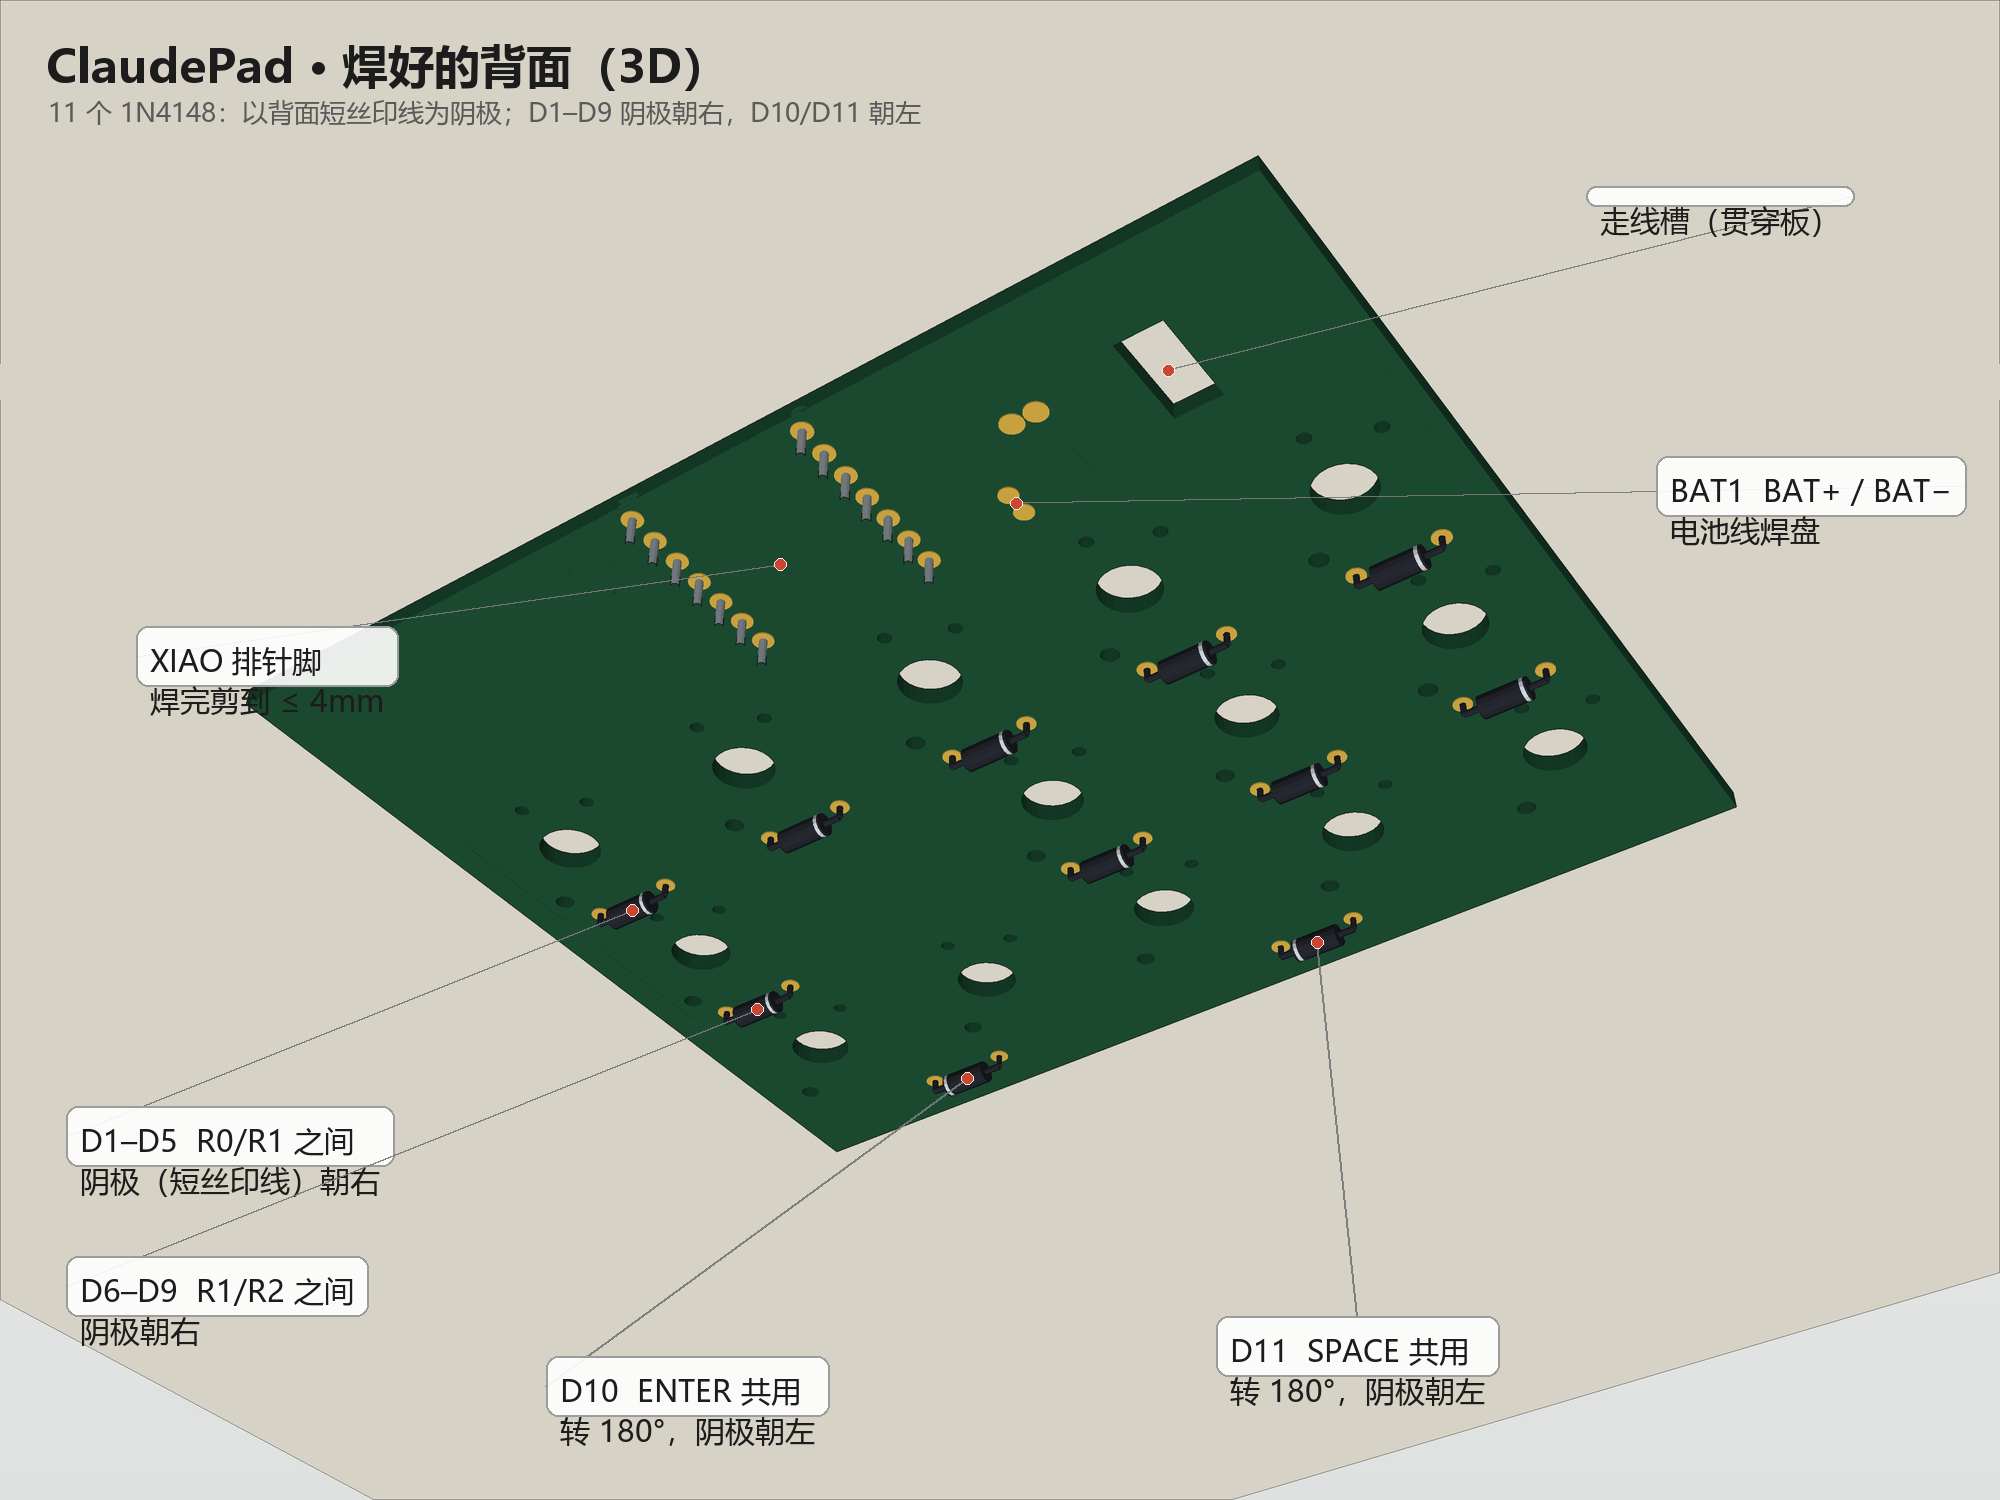
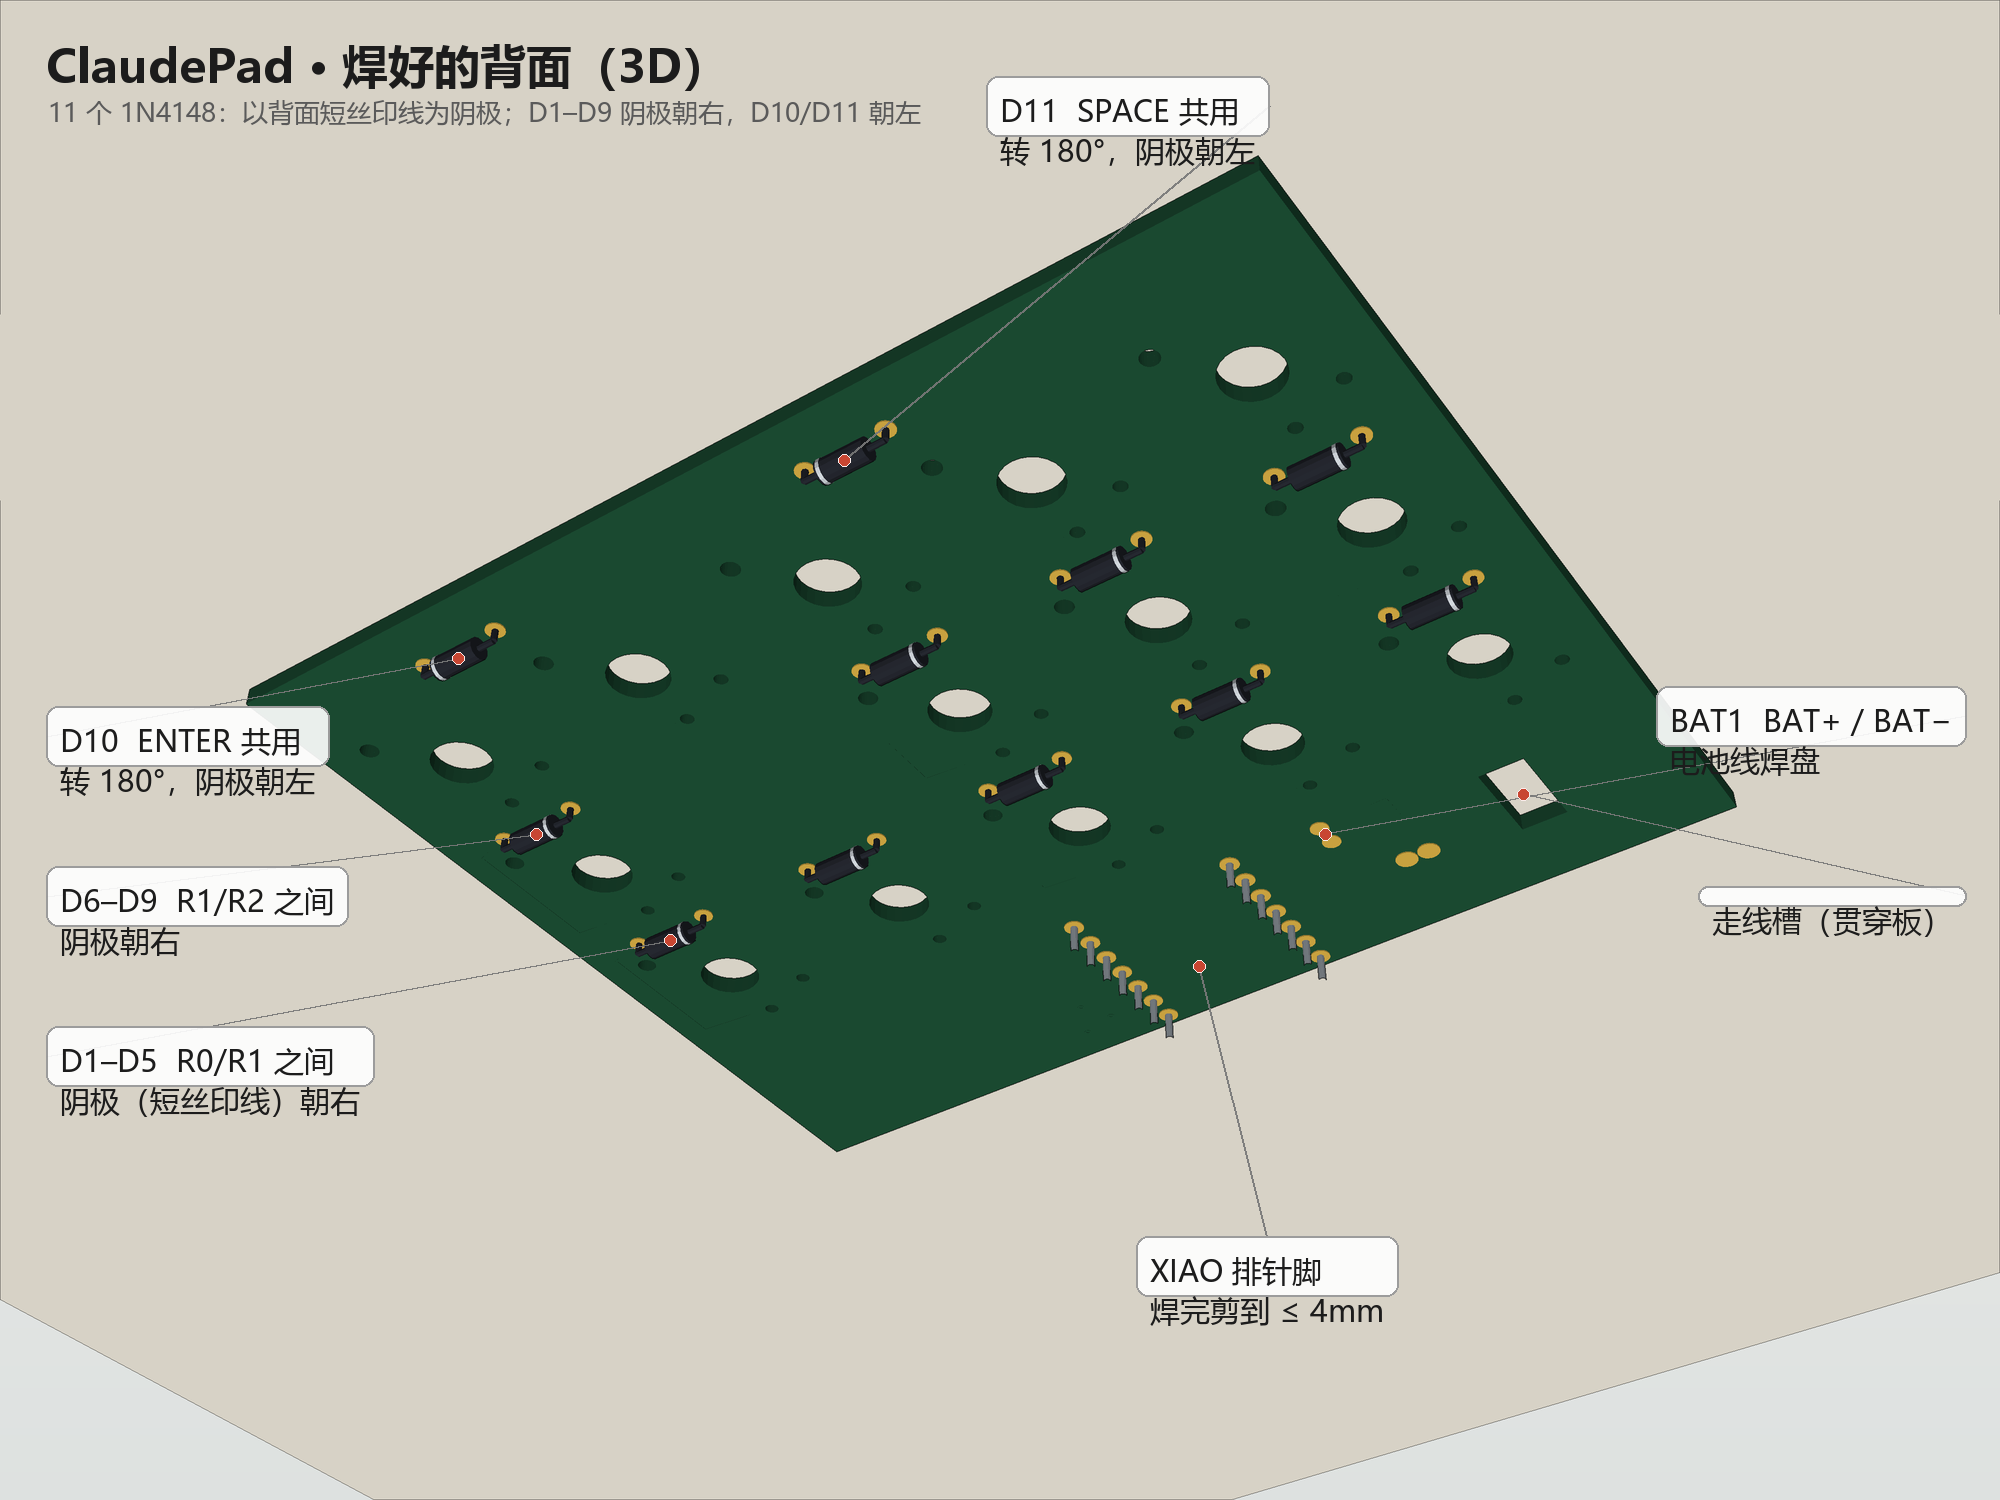
fix(render): mirror 3D guides to the physical PCB frame (KiCad STEP uses Y=-Y_board) [skip ci]

diff --git a/tools/render_assembly.py b/tools/render_assembly.py
@@ -319,6 +319,22 @@ def erode(mask, it=1):
     return m
 
 
+# KiCad exports 3D/STEP in a frame where Y = -Y(board).  The fabricated board
+# follows the 3D/STEP frame, so the board-coordinate scene must be mirrored in Y
+# to match the real PCB (and the KiCad previews).
+Y_MIRROR = 82.0
+
+
+def mirror_y(tri):
+    out = tri.copy()
+    out[:, :, 1] = Y_MIRROR - out[:, :, 1]
+    return out[:, [0, 2, 1]]
+
+
+def my_point(p):
+    return (p[0], Y_MIRROR - p[1], p[2])
+
+
 def render(cam: Camera, meshes, ss=2, lights=None, edge_color=0.42):
     """meshes: list of (triangles, rgb) tuples."""
     W, H = cam.width, cam.height
@@ -333,6 +349,7 @@ def render(cam: Camera, meshes, ss=2, lights=None, edge_color=0.42):
     for tris, col in meshes:
         if len(tris) == 0:
             continue
+        tris = mirror_y(tris)
         v = tris - cam.pos
         cx, cy, cz = v @ cam.r, v @ cam.u, v @ cam.f
         if cam.ortho_scale is not None:
@@ -433,7 +450,7 @@ def draw_callouts(img, cam, callouts, *, title, subtitle, fsize=30,
     draw.text((48, 94), subtitle, font=f_sub, fill=(90, 90, 90))
 
     for c in callouts:
-        ax, ay, _ = cam.project([c["anchor"]])
+        ax, ay, _ = cam.project([my_point(c["anchor"])])
         ax, ay = float(ax[0]), float(ay[0])
         text = c["text"]
         lines = text.split("\n")
@@ -553,7 +570,7 @@ def scene_soldered_bottom():
 # views
 # ---------------------------------------------------------------------------
 def project_anchor(cam, p):
-    sx, sy, _ = cam.project([p])
+    sx, sy, _ = cam.project([my_point(p)])
     return float(sx[0]), float(sy[0])
 
 
@@ -565,21 +582,19 @@ def view_front_iso():
     img = render(cam, meshes, ss=2,
                  lights=[((0.35, -0.5, 0.79), 0.62), ((-0.6, -0.2, 0.4), 0.24)])
     callouts = [
-        dict(anchor=(54, 12, Z_TOP + 7.3), xy=(250, 1140),
-             text="U1  XIAO nRF52840\n2×7 排针，抬高 2.5mm\nUSB-C 朝后边"),
-        dict(anchor=(76, 12, Z_TOP + 4.5), xy=(1120, 1280),
+        dict(anchor=(54, 12, Z_TOP + 7.3), xy=(1040, 170),
+             text="U1  XIAO nRF52840\n2×7 排针，抬高 2.5mm\n背面 BAT 焊盘引电池线"),
+        dict(anchor=(76, 12, Z_TOP + 4.5), xy=(1450, 360),
              text="J1  JST-PH 2.0\npin1 = BAT+"),
-        dict(anchor=(58, 18, Z_TOP + 1.2), xy=(120, 940),
-             text="电池线：XIAO 背面 BAT 焊盘\n沿模块右侧走到 BAT1"),
-        dict(anchor=(85.5, 14, Z_TOP), xy=(1420, 1300),
+        dict(anchor=(85.5, 14, Z_TOP), xy=(1980, 720), align="right",
              text="走线槽 4×8mm\n电池线穿到背面"),
-        dict(anchor=(18, 30.5, Z_TOP + 7.9), xy=(110, 330),
-             text="SW1–SW5  R0 上排\nPERM MODEL CMD ↑ VOICE"),
-        dict(anchor=(18, 47.5, Z_TOP + 7.9), xy=(110, 500),
-             text="SW6–SW9  R1 中排\nSTOP ← ↓ →"),
-        dict(anchor=(72, 64.5, Z_TOP + 7.9), xy=(1250, 330),
-             text="SW10–SW14  R2 下排\nENTER 2 轴 / SPACE 3 轴\n每个轴位 pin1 在左下角"),
-        dict(anchor=(90, 55.5, Z_TOP + 4.9), xy=(1980, 860), align="right",
+        dict(anchor=(18, 30.5, Z_TOP + 7.9), xy=(120, 190),
+             text="SW1–SW5  R0（靠 USB 一端）\nPERM MODEL CMD ↑ VOICE"),
+        dict(anchor=(18, 47.5, Z_TOP + 7.9), xy=(120, 400),
+             text="SW6–SW9  R1\nSTOP ← ↓ →"),
+        dict(anchor=(72, 64.5, Z_TOP + 7.9), xy=(260, 1120),
+             text="SW10–SW14  R2（使用者一侧）\nENTER 2 轴 / SPACE 3 轴\npin1 在轴位左下角"),
+        dict(anchor=(90, 55.5, Z_TOP + 4.9), xy=(1980, 1120), align="right",
              text="14 个 Choc V2 轴\n焊前先确认方向"),
     ]
     img = draw_callouts(img, cam, callouts,
@@ -602,22 +617,22 @@ def view_top():
     img = render(cam, meshes, ss=2,
                  lights=[((0.25, -0.2, 0.95), 0.70), ((-0.4, 0.3, 0.5), 0.20)])
     callouts = [
-        dict(anchor=(54, 12, Z_TOP + 7.3), xy=(2045, 1660),
+        dict(anchor=(54, 12, Z_TOP + 7.3), xy=(2490, 380), align="right",
              text="U1  XIAO nRF52840\n2×7 排针，抬高 2.5mm"),
-        dict(anchor=(76, 12, Z_TOP + 4.5), xy=(2045, 1470),
+        dict(anchor=(76, 12, Z_TOP + 4.5), xy=(2490, 520), align="right",
              text="J1  JST-PH 2.0\npin1 = BAT+"),
-        dict(anchor=(85.5, 14, Z_TOP), xy=(2045, 1310),
+        dict(anchor=(85.5, 14, Z_TOP), xy=(2490, 660), align="right",
              text="走线槽 4×8mm"),
-        dict(anchor=(54, 47.5, Z_TOP + 6.3), xy=(2045, 820),
-             text="R1/C1 空位\n不装轴、不补孔"),
-        dict(anchor=(72, 64.5, Z_TOP + 6.3), xy=(2045, 470),
+        dict(anchor=(72, 64.5, Z_TOP + 6.3), xy=(2490, 820), align="right",
              text="SPACE 3u\nSW12+SW13+SW14 并联"),
-        dict(anchor=(18, 30.5, Z_TOP + 6.3), xy=(40, 1030),
-             text="SW1–SW5  R0\nPERM MODEL CMD ↑ VOICE"),
-        dict(anchor=(18, 47.5, Z_TOP + 6.3), xy=(40, 720),
+        dict(anchor=(72, 64.5, Z_TOP + 6.3), xy=(2490, 1000), align="right",
+             text="SW10–SW14  R2（使用者一侧）\nENTER 2u：SW10+SW11 并联"),
+        dict(anchor=(18, 30.5, Z_TOP + 6.3), xy=(40, 650),
+             text="SW1–SW5  R0（靠 USB 一端）\nPERM MODEL CMD ↑ VOICE"),
+        dict(anchor=(18, 47.5, Z_TOP + 6.3), xy=(40, 930),
              text="SW6–SW9  R1\nSTOP ← ↓ →"),
-        dict(anchor=(27, 64.5, Z_TOP + 6.3), xy=(40, 400),
-             text="SW10–SW14  R2\nENTER 2u：SW10+SW11 并联\npin1 在轴位左下角"),
+        dict(anchor=(36, 47.5, Z_TOP + 6.3), xy=(40, 1090),
+             text="R1/C1 空位\n不装轴、不补孔"),
     ]
     img = draw_callouts(img, cam, callouts, fsize=27,
                         title="ClaudePad · 焊好的正面（俯视布局图）",
@@ -628,8 +643,8 @@ def view_top():
         px, py = project_anchor(cam, (x, 80.6, Z_TOP))
         d.text((px - 15, py - 8), f"C{i}", font=f_small, fill=(70, 70, 70))
     px, _ = project_anchor(cam, (54, 41, Z_TOP))
-    d.text((px - 130, 150), "↑ 板边为使用者一侧（前）", font=font(26), fill=(80, 80, 80))
-    d.text((px - 140, 1720), "↓ 板下边为 USB-C / 控制器仓（后）", font=font(26), fill=(80, 80, 80))
+    d.text((px - 120, 150), "↑ USB-C / 控制器仓（后）", font=font(26), fill=(80, 80, 80))
+    d.text((px - 120, 1720), "↓ 使用者一侧（前）", font=font(26), fill=(80, 80, 80))
     img.save(OUT / "guide-top.png")
     print("wrote", OUT / "guide-top.png")
 
@@ -642,19 +657,19 @@ def view_bottom_iso():
     img = render(cam, meshes, ss=2,
                  lights=[((0.35, -0.5, -0.79), 0.62), ((-0.6, -0.2, -0.4), 0.24)])
     callouts = [
-        dict(anchor=(18, 38.5, -1.15), xy=(80, 1120),
+        dict(anchor=(18, 38.5, -1.15), xy=(60, 1040),
              text="D1–D5  R0/R1 之间\n阴极（短丝印线）朝右"),
-        dict(anchor=(18, 55.5, -1.15), xy=(80, 1270),
+        dict(anchor=(18, 55.5, -1.15), xy=(60, 880),
              text="D6–D9  R1/R2 之间\n阴极朝右"),
-        dict(anchor=(27, 74.5, -1.15), xy=(560, 1370),
+        dict(anchor=(27, 74.5, -1.15), xy=(60, 720),
              text="D10  ENTER 共用\n转 180°，阴极朝左"),
-        dict(anchor=(63, 74.5, -1.15), xy=(1230, 1330),
+        dict(anchor=(63, 74.5, -1.15), xy=(1000, 90),
              text="D11  SPACE 共用\n转 180°，阴极朝左"),
-        dict(anchor=(54, 12, -2.6), xy=(150, 640),
+        dict(anchor=(54, 12, -2.6), xy=(1150, 1250),
              text="XIAO 排针脚\n焊完剪到 ≤ 4mm"),
-        dict(anchor=(70, 18.5, 0), xy=(1980, 470), align="right",
+        dict(anchor=(70, 18.5, 0), xy=(1980, 700), align="right",
              text="BAT1  BAT+ / BAT−\n电池线焊盘"),
-        dict(anchor=(85.5, 14, 0), xy=(1600, 200),
+        dict(anchor=(85.5, 14, 0), xy=(1980, 900), align="right",
              text="走线槽（贯穿板）"),
     ]
     img = draw_callouts(img, cam, callouts,
@@ -672,13 +687,13 @@ def view_assembled():
     img = render(cam, meshes, ss=2,
                  lights=[((0.4, -0.5, 0.76), 0.58), ((-0.55, -0.2, 0.45), 0.26)])
     callouts = [
-        dict(anchor=(90, 30.5, 14.9), xy=(1450, 980),
-             text="定位板 1.2mm\n14 个 14.5mm 方孔 + 侧卡扣槽"),
-        dict(anchor=(72, 64.5, 18.6), xy=(1120, 1270),
-             text="键帽：1u×9 / 2u×1 / 3u×1\nSPACE 3u 跨 3 颗轴"),
-        dict(anchor=(54, 12, 15.9), xy=(180, 1140),
+        dict(anchor=(54, 12, 15.9), xy=(1000, 170),
              text="控制器仓敞开\nUSB-C / RESET 可直接操作"),
-        dict(anchor=(60, 78, 8), xy=(1350, 1330),
+        dict(anchor=(90, 30.5, 14.9), xy=(1980, 500), align="right",
+             text="定位板 1.2mm\n14 个 14.5mm 方孔 + 侧卡扣槽"),
+        dict(anchor=(72, 64.5, 18.6), xy=(450, 1080),
+             text="键帽：1u×9 / 2u×1 / 3u×1\nSPACE 3u 跨 3 颗轴"),
+        dict(anchor=(60, 78, 8), xy=(1980, 1250), align="right",
              text="底座 4 个支撑柱托住 PCB\n4 颗 M2×6 自攻螺丝"),
     ]
     img = draw_callouts(img, cam, callouts,

diff --git a/tools/check_render_vs_preview.py b/tools/check_render_vs_preview.py
@@ -1,0 +1,53 @@
+"""Diagnostic: compare the 3D scene (ortho top) with the KiCad PCB top preview."""
+
+import sys
+from pathlib import Path
+
+sys.path.insert(0, str(Path(__file__).resolve().parent))
+
+import numpy as np
+from PIL import Image, ImageDraw, ImageFont
+
+import render_assembly as R
+
+OUT = Path(r"D:\coding keyboard\.tmp_check.png")
+
+
+def main():
+    cam = R.Camera(pos=(54, 41, 250), target=(54, 41, 0), up=(0, 1, 0),
+                   ortho_scale=17.5, width=1400, height=1180)
+    meshes = R.scene_soldered_top()
+    meshes.append((R.ground_plane(-45.0), R.C_GROUND))
+    img3d = R.render(cam, meshes, ss=2,
+                     lights=[((0.25, -0.2, 0.95), 0.70), ((-0.4, 0.3, 0.5), 0.20)])
+
+    # kicad preview, board-cropped, matched size
+    top = Image.open(R.ROOT / "pcb" / "output" / "preview" / "claudepad-pcb-top.png").convert("RGB")
+    a = np.asarray(top).astype(int)
+    mask = (a[:, :, 1] > a[:, :, 0] + 12) & (a[:, :, 1] > a[:, :, 2] + 6)
+    ys, xs = np.nonzero(mask)
+    pad = 6
+    box = (max(xs.min() - pad, 0), max(ys.min() - pad, 0),
+           min(xs.max() + pad, a.shape[1]), min(ys.max() + pad, a.shape[0]))
+    kic = top.crop(box).resize(img3d.size, Image.LANCZOS)
+
+    scale = 0.5
+    w3 = int(img3d.width * scale)
+    h3 = int(img3d.height * scale)
+    p3 = img3d.resize((w3, h3), Image.LANCZOS)
+    pk = kic.resize((w3, h3), Image.LANCZOS)
+
+    gap, m = 30, 20
+    canvas = Image.new("RGB", (m * 2 + w3 * 2 + gap, h3 + 110), (245, 243, 238))
+    d = ImageDraw.Draw(canvas)
+    f = ImageFont.truetype(r"C:\Windows\Fonts\msyhbd.ttc", 34)
+    canvas.paste(p3, (m, 80))
+    canvas.paste(pk, (m + w3 + gap, 80))
+    d.text((m, 24), "我的 3D 渲染（正上方）", font=f, fill=(160, 40, 30))
+    d.text((m + w3 + gap, 24), "KiCad 出板预览（正上方，镜像？）", font=f, fill=(30, 60, 140))
+    canvas.save(OUT)
+    print("wrote", OUT, canvas.size)
+
+
+if __name__ == "__main__":
+    main()
